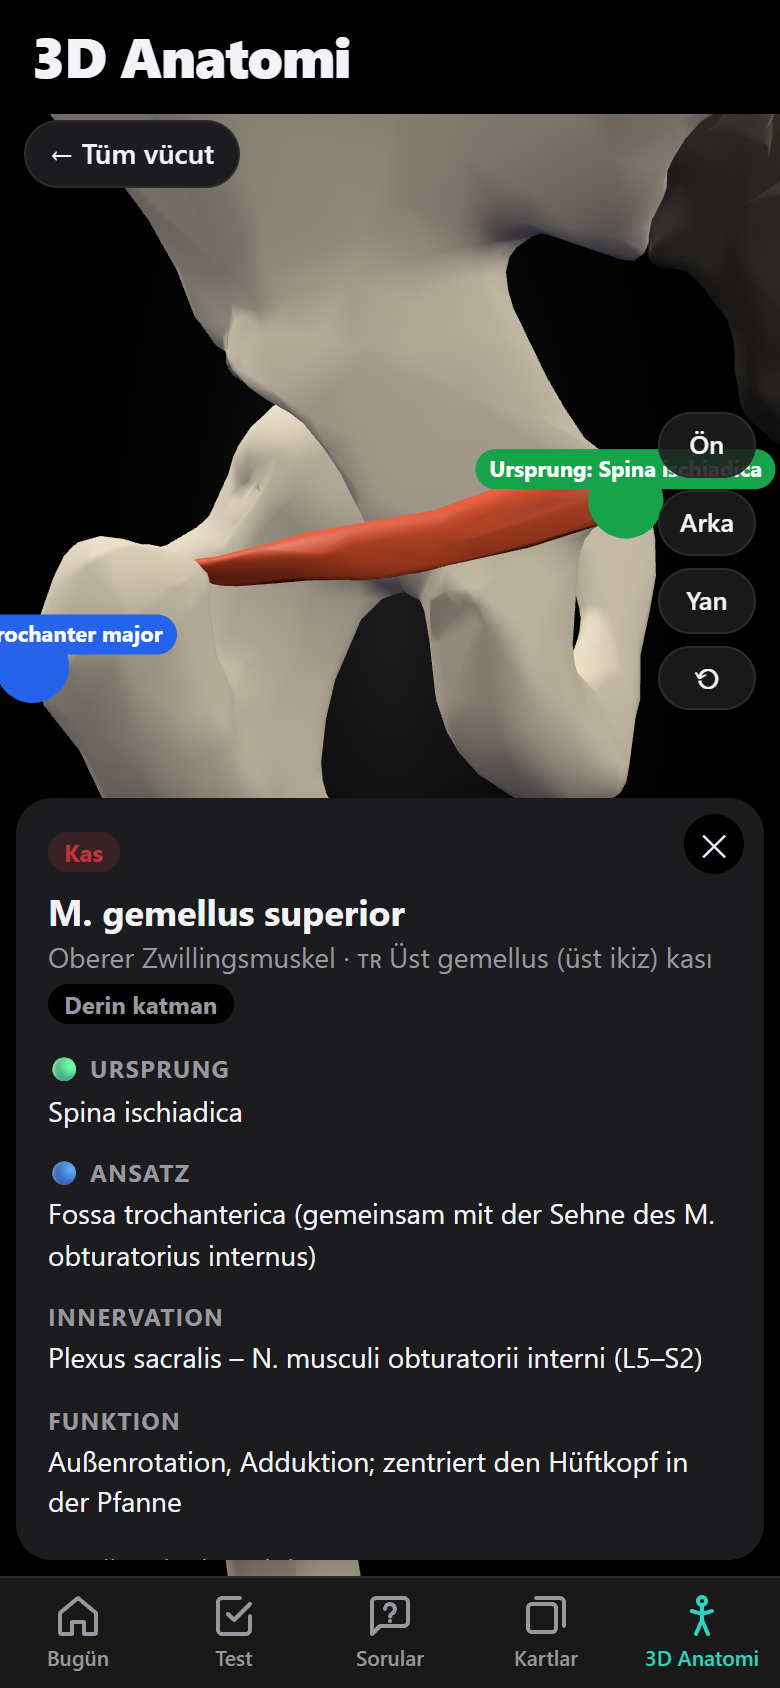
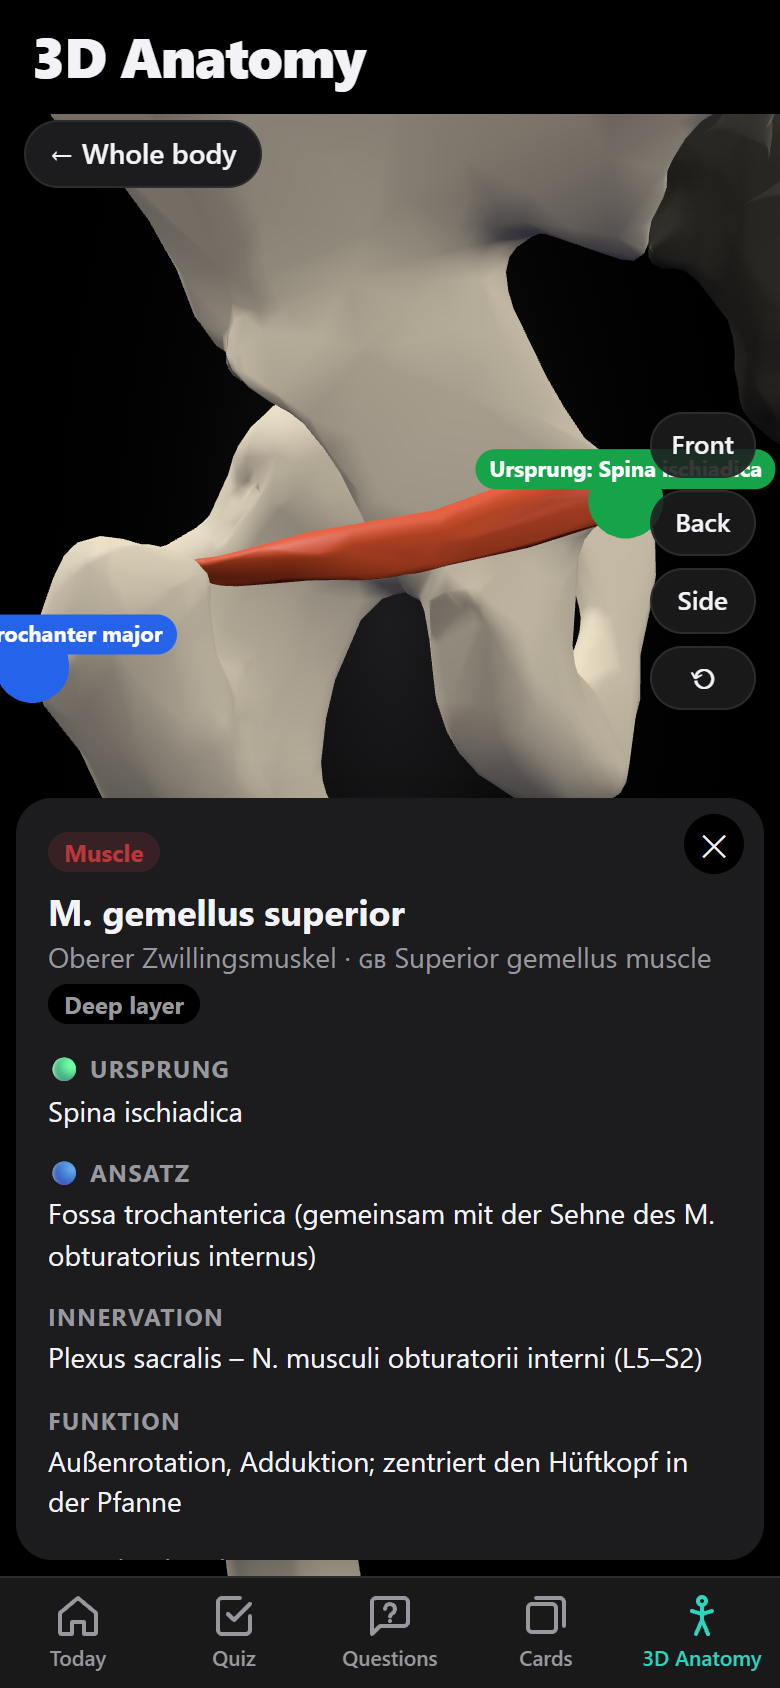
README: English screenshots, new exam-practice section (mock exam, oral exam, case trainer), helper language
Screenshots taken in a fresh profile with the service worker bypassed and private data blocked.

diff --git a/README.md b/README.md
@@ -40,9 +40,12 @@ Explanations are in a **helper language you choose in Settings: Turkish or Engli
 | **21** lessons in **9** subjects | Anatomy, physiology, PT basics, PT assessment, orthopaedics/surgery, training science, massage, hygiene, psychology |
 | **830+** multiple-choice questions | 377 hand-written (337 of them from the lesson notes), plus questions generated automatically from the anatomy data |
 | **100+** open (essay) questions | Answers typed in German, checked for the required key terms |
-| **56** muscles, **23** bone groups, **12** joints | Each with origin, insertion, innervation and function, or range of motion, in German and Latin with Turkish explanations |
+| **56** muscles, **23** bone groups, **12** joints | Each with origin, insertion, innervation and function, or range of motion, in German and Latin with Turkish and English explanations |
 | **19** bony landmarks in 3D | SIAS, Tuber ischiadicum, Trochanter major and others, each linked to the muscles attached there |
 | **600+** vocabulary items | Basic medical vocabulary, lesson terms, and 55 gym exercises linked to the muscles they train |
+| **7** patient cases | Practice for the practical exam: history → examination → assessment form → therapy plan |
+| **3** oral exam subjects | Anatomie, Physiologie and Spezielle Krankheitslehre with the official time limits, questions read aloud in German |
+| **2** helper languages | Turkish or English for the interface and all explanations; the German content never changes |
 | **~2 MB** of 3D models | Real anatomical meshes (BodyParts3D), compressed so the whole app runs offline on a phone |
 
 ---
@@ -88,7 +91,11 @@ The project shows how someone with a clear idea and deep knowledge of a field ca
 
 ## Features
 
-**Helper language:** in ⚙ Settings you choose Turkish 🇹🇷 or English 🇬🇧 for the interface, explanations and translations. German content (questions, answers, model answers, terms) never changes. The screenshots below show the Turkish interface; a glossary is at the end of this page.
+<img src="docs/screenshots/settings-language.png" width="230" align="right" alt="Settings: choose the helper language">
+
+**Helper language:** in ⚙ Settings you choose Turkish 🇹🇷 or English 🇬🇧 for the interface, explanations and translations. German content (questions, answers, model answers, terms) never changes. The screenshots on this page show the **English** mode. The app starts in Turkish, and a glossary of the Turkish labels is at the end of this page.
+
+<br clear="right">
 
 ### 1. A plan for every day (*Bugün* = Today)
 - Today's and tomorrow's classes, read from my weekly timetable in Notion. If several weeks are planned ahead, the right one is picked by date.
@@ -106,11 +113,22 @@ The project shows how someone with a clear idea and deep knowledge of a field ca
 - **Adaptive selection.** Questions I missed come back more often; questions I answered correctly yesterday are skipped today; harder question types unlock as accuracy rises.
 - **Varied formats.** Single answer, "which statement is false", matching, ordering, case studies and numbers.
 - **Generated anatomy questions.** "Where does M. … insert?", "Which nerve supplies …?". The wrong options come from the same body region and have similar length, so the answer cannot be guessed from the layout. The explanation names the muscle each wrong option belongs to.
-- **Mock exam.** 15 multiple-choice and 3 essay questions in 30 minutes, with no feedback until the end, then a result per topic.
-- **Case trainer** (*Vaka çalışması*). Practice for the practical state exam, where a real patient has to be assessed, documented and given a therapy plan. Seven made-up German patient cases (Coxarthrose, H-TEP, ankle sprain, low back pain with yellow flags, shoulder impingement, knee arthritis, fear of falling after a fall). I read the history, choose which examinations to do (each one reveals its findings), fill in a structured assessment form (flags, ICF, main problem, SMART goal, measures, contraindications) and compare it with a model answer. The app checks key terms and points out important examinations I skipped.
 - **3D button.** When a question mentions anatomy, a button after the answer opens every structure it names in the 3D model.
 
-### 3. Essay questions with a smart answer check (*Sorular*)
+### 3. Practising for the state exam
+The German state exam has a written, an oral and a practical part, and each must be passed on its own. FizyoLern trains all three.
+
+<p>
+  <img src="docs/screenshots/mock-exam.png" width="230" alt="Mock exam with timer and question overview">
+  <img src="docs/screenshots/oral-exam.png" width="230" alt="Oral exam: the examiner asks a follow-up question">
+  <img src="docs/screenshots/case-trainer.png" width="230" alt="Case trainer: examination findings of a patient case">
+</p>
+
+- **Mock exam** (*Deneme sınavı*). 15 multiple-choice and 3 essay questions in 30 minutes, with no feedback until the end, then a result per topic.
+- **Oral exam simulator** (*Sözlü sınav*). An "examiner" reads 5 questions aloud in German (Anatomie 30 min, Physiologie 15 min, Spezielle Krankheitslehre 30 min, the official limits). I answer by voice, or by keyboard dictation on the iPhone. If a key point is missing, the examiner asks a follow-up ("Und welche Funktion hat er?"). At the end I see the terms I found and missed, plus the model answer. All speech runs in the browser, with no server. A 🔊 button on cards and lesson terms reads the German or Latin pronunciation aloud.
+- **Case trainer** (*Vaka çalışması*). Practice for the practical state exam, where a real patient has to be assessed, documented and given a therapy plan. Seven made-up German patient cases (Coxarthrose, H-TEP, ankle sprain, low back pain with yellow flags, shoulder impingement, knee arthritis, fear of falling after a fall). I read the history, choose which examinations to do (each one reveals its findings), fill in a structured assessment form (flags, ICF, main problem, SMART goal, measures, contraindications) and compare it with a model answer. The app checks key terms and points out important examinations I skipped.
+
+### 4. Essay questions with a smart answer check (*Sorular*)
 <img src="docs/screenshots/open-question.png" width="230" align="right" alt="Open question with key-term check">
 
 - I type my answer in German. The app checks it for the exam-relevant key terms (green ✓ found, red ✗ missing), then shows the model answer.
@@ -120,11 +138,9 @@ The project shows how someone with a clear idea and deep knowledge of a field ca
   - small typos are tolerated;
   - umlauts may be written as *ae/oe/ue*.
 - **Opposites are never accepted as typos.** *Abduktion* ≠ *Adduktion*, *Sympathikus* ≠ *Parasympathikus*, *hyper-* ≠ *hypo-*. They differ by a letter or two but mean the opposite.
-- **Oral exam simulator** (*Sözlü sınav*). An "examiner" reads 5 questions aloud in German (Anatomie 30 min, Physiologie 15 min, Spezielle Krankheitslehre 30 min, the official limits). I answer by voice, or by keyboard dictation on the iPhone. If a key point is missing, the examiner asks a follow-up ("Und welche Funktion hat er?"). At the end I see the terms I found and missed, plus the model answer. All speech runs in the browser, with no server. A 🔊 button on cards and lesson terms reads the German or Latin pronunciation aloud.
-
 <br clear="right">
 
-### 4. Flash cards with spaced repetition (*Kartlar*)
+### 5. Flash cards with spaced repetition (*Kartlar*)
 - An Anki-style algorithm with learning steps. *Again* comes back in 1 minute and *Hard* in 10 minutes. After that, *Hard* < *Good* < *Easy* in days, which can never be equal.
 - Decks:
   - mistake cards and homework cards from Notion;
@@ -132,11 +148,11 @@ The project shows how someone with a clear idea and deep knowledge of a field ca
   - muscles (each with a typical gym exercise), bones and joints.
 - At most 20 mistake cards per day, today's subjects first, so reviewing never becomes overwhelming.
 
-### 5. Words of the day
+### 6. Words of the day
 - 5 words a day, chosen from categories that match today's classes.
 - The morning and the way home ask the same words in different formats: German→Turkish, typing the German word with its article, cloze sentence, *Partizip II* of separable verbs (`an|schwellen` → *angeschwollen*). Practising each word twice in different ways helps it stick.
 
-### 6. Interactive 3D anatomy
+### 7. Interactive 3D anatomy
 <p>
   <img src="docs/screenshots/3d-step-by-step.png" width="230" alt="Spine shown step by step in four colours">
   <img src="docs/screenshots/3d-joint-axes.png" width="230" alt="Hip joint with three movement axes">
@@ -154,7 +170,7 @@ The project shows how someone with a clear idea and deep knowledge of a field ca
 - **Step-by-step viewer:** a question about "the spine" opens the cervical, thoracic and lumbar spine and the sacrum one after another, then all together in four colours (middle picture).
 - **"Find the point" drill:** the app asks "Show the SIAS" or "Where does M. sartorius originate?" and I tap the bone. A wrong tap shows the correct point with its name (right picture).
 
-### 7. Homework and memorisation
+### 8. Homework and memorisation
 <img src="docs/screenshots/homework-card.png" width="230" align="right" alt="Homework flash card">
 
 Much of the first year is homework like *"learn the pelvic landmarks and the hip muscles by next week"*. FizyoLern keeps it separate from mistakes:
@@ -167,7 +183,7 @@ Much of the first year is homework like *"learn the pelvic landmarks and the hip
 
 <br clear="right">
 
-### 8. Lesson notes and AI tutor report
+### 9. Lesson notes and AI tutor report
 - Each lesson has key sentences in German with a Turkish translation, a test, essay questions and vocabulary, plus a link to the original note.
 - **Status report.** One tap turns the day's progress into a message for an AI tutor. The message gives context, the study streak, cards (reviews vs. new), weak subjects, the most frequent mistakes in readable form, and homework. The tutor can then explain weak topics and set a mini exam.
 
@@ -259,14 +275,14 @@ The app works without Notion. With Notion it also shows **your own** timetable, 
 ### Step 3: Paste the key in the app
 <img src="docs/screenshots/settings-entry.png" width="300" alt="The gear icon at the top right of the Today screen">
 
-1. Open FizyoLern and tap the **⚙ gear icon** at the top right of the *Bugün* (Today) screen. This opens **Ayarlar** (Settings).
-2. Scroll to **Notion bağlantısı** (Notion connection).
+1. Open FizyoLern and tap the **⚙ gear icon** at the top right of the **Today** screen (*Bugün* in Turkish). This opens **Settings** (*Ayarlar*).
+2. Scroll to **Notion connection** (*Notion bağlantısı*).
 3. Paste the key into the field `ntn_… (Notion Internal Integration Secret)`.
-4. Tap **Bağlan ve güncelle** (connect and update). After a few seconds the app shows a short summary of what it found (weeks, mistake cards, words, questions).
+4. Tap **Connect and update** (*Bağlan ve güncelle*). After a few seconds the app shows a short summary of what it found (weeks, mistake cards, words, questions).
 
 <img src="docs/screenshots/settings-notion.png" width="300" alt="Settings screen with the Notion connection field">
 
-From then on the app updates itself when it is opened (at most every 3 hours). **Şimdi güncelle** (update now) in the same place updates immediately, and **Bağlantıyı sil** (remove connection) deletes the key from the phone.
+From then on the app updates itself when it is opened (at most every 3 hours). **Update now** (*Şimdi güncelle*) in the same place updates immediately, and **Remove connection** (*Bağlantıyı sil*) deletes the key from the phone.
 
 **Where is the key stored?** Only in this phone's browser storage. It is sent only to `api.notion.com`; the app's security policy blocks every other server. If the phone is lost, delete or renew the secret on the Notion integrations page and the old key stops working immediately.
 
@@ -309,7 +325,7 @@ python tools/bump_sw.py             # after any change, so phones load the new v
 
 ---
 
-## Glossary of the Turkish interface (shown in the screenshots)
+## Glossary of the Turkish interface (the app's default language)
 
 | Turkish | English |
 |---|---|
